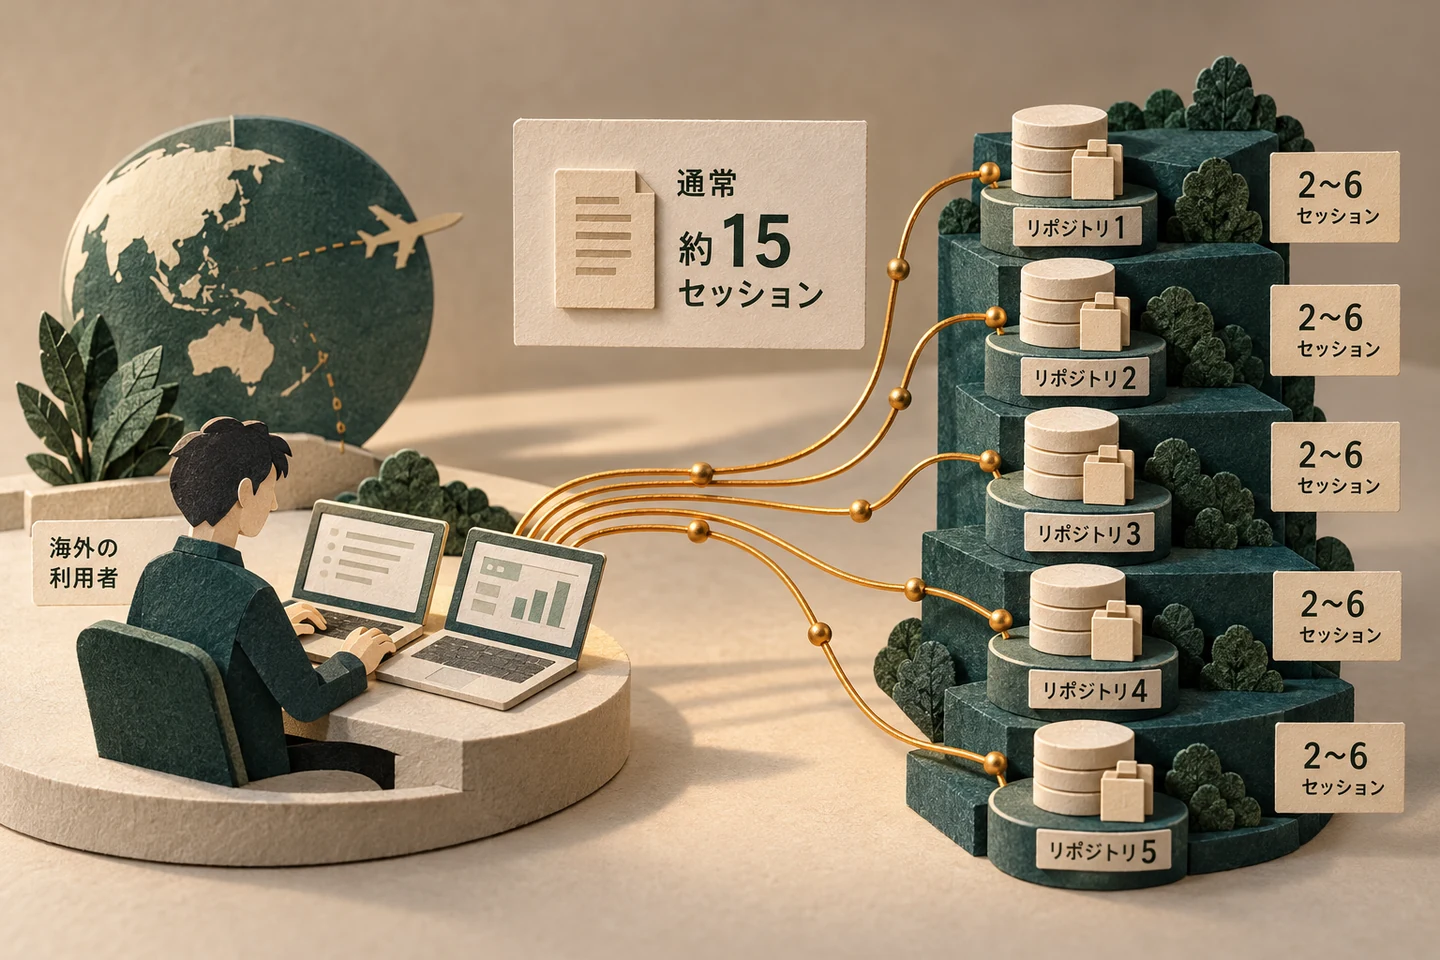
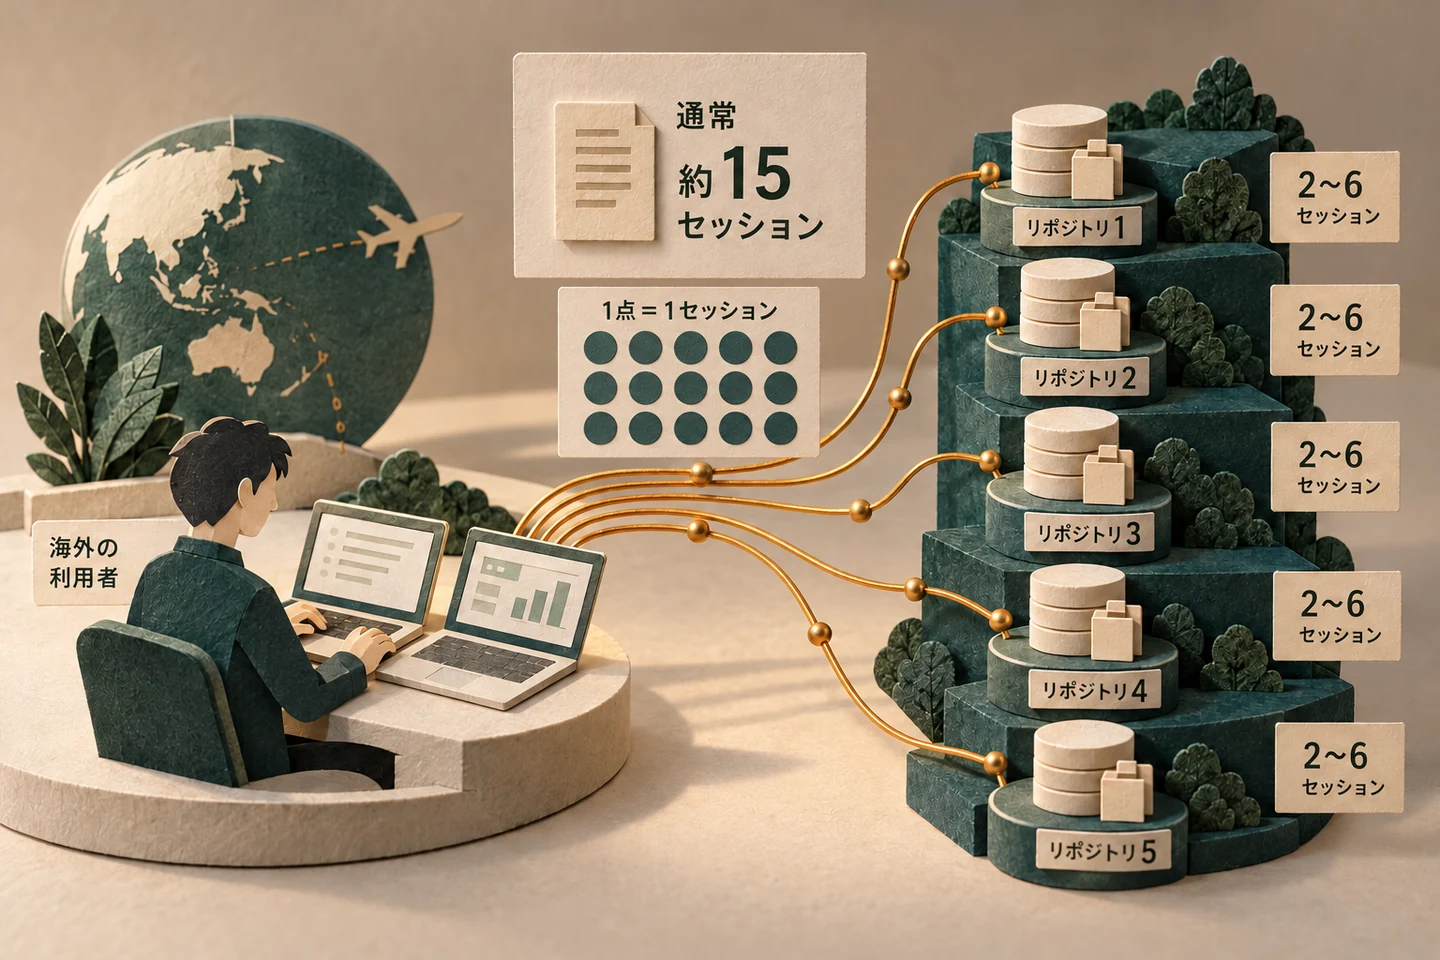
Match the session infographic to its fifteen-dot caption

diff --git a/docs/page-art-20261015.md b/docs/page-art-20261015.md
@@ -5,10 +5,10 @@
 生成りの厚紙・深い青緑・控えめな金色の線・柔らかな陰影を共通表現とし、記事と講習図解を主題別に制作する。138点を組込み image_gen で新規生成。旧図版の意味・役割・順序・数値は各画像の説明と元記事を基準にする。受講資料8種類は既存トップのペーパーアートへ揃え、講師画像は現在トップで使う本人画像を共用する。動画本体は保持し、表紙を該当記事の新画像へ揃える。
 
 - 対応表: `config/page-art.json`（152参照・36ページ）。画像のないページ、トップと画像を共用する箇所、ロゴ・favicon・実績・SNSの既存画像は保持。
-- 公開画像: `site/static/design-system/studio/images/paper-20261015/`。最大横1440px、WebP品質88。元PNGは `assets/paper-20261015/originals/` に保管しGit対象外。プロンプトは `assets/paper-20261015/prompts.json`、2点の修正内容は `revisions.json`。
+- 公開画像: `site/static/design-system/studio/images/paper-20261015/`。最大横1440px、WebP品質88。元PNGは `assets/paper-20261015/originals/` に保管しGit対象外。プロンプトは `assets/paper-20261015/prompts.json`、3点の修正内容は `revisions.json`。
 - 再生成: `core/page_art.py` を通常サイト生成・共通テーマ生成・日次生成へ適用。トップは処理対象外。文字のある図が切れないよう画像の縦横比を保持する。
 - 公開: `scripts/build_page_art_release.py` でハッシュ照合した624資産の本番基準から生成。トップHTML・全共有画像・本文・リンク・動画・Workerの保持を検査する。
 
-ローカル検証済み。本番公開は次工程。138点を全て目視し、採点を誤示する表と責任範囲を誤示する図の2点を修正。762資産中36ページ変更・138画像追加・588資産保持、161配置を検査。本文・アンカー・動画・トップ全画像・Workerの保持を確認。Python28件、Cloudflare7件、IABでPC1440pxとスマホ390pxの表示・メニュー開閉を確認。遅延読み込み前にも画像の縦横比を確保する。画像コードを確定したコミットから762資産を再生成し、レビュー済み候補との全ハッシュ一致を確認。`content/ai-news/release-baseline.json` もこの762資産へ更新し、次の日次生成で旧画像へ戻らないようにする。公開SHA・PR・Cloudflare version・全新画像のHTTPハッシュ・本番画面確認は登録公開元 `tmp/delivery/20261015-all-page-images.json` と証拠フォルダへ記録する。
+ローカル検証済み。本番公開は次工程。138点を全て目視し、採点を誤示する表と責任範囲を誤示する図、および説明に対応する15点表示の3点を修正。762資産中36ページ変更・138画像追加・588資産保持、161配置を検査。本文・アンカー・動画・トップ全画像・Workerの保持を確認。Python28件、Cloudflare7件、IABで36ページをPC1440pxとスマホ390pxの計72画面で検査し、横はみ出し・画像切取りなし。メニュー開閉も確認。遅延読み込み前にも画像の縦横比を確保する。画像コードを確定したコミットから762資産を再生成し、レビュー済み候補との全ハッシュ一致を確認。`content/ai-news/release-baseline.json` もこの762資産へ更新し、次の日次生成で旧画像へ戻らないようにする。公開SHA・PR・Cloudflare version・全新画像のHTTPハッシュ・本番画面確認は登録公開元 `tmp/delivery/20261015-all-page-images.json` と証拠フォルダへ記録する。
 
 Jevレビューは、非公開コードの外部送信に対する具体的な承認がないため自動承認レビューに拒否された。外部送信を行わず、ローカル検証と差分レビューで継続する。
